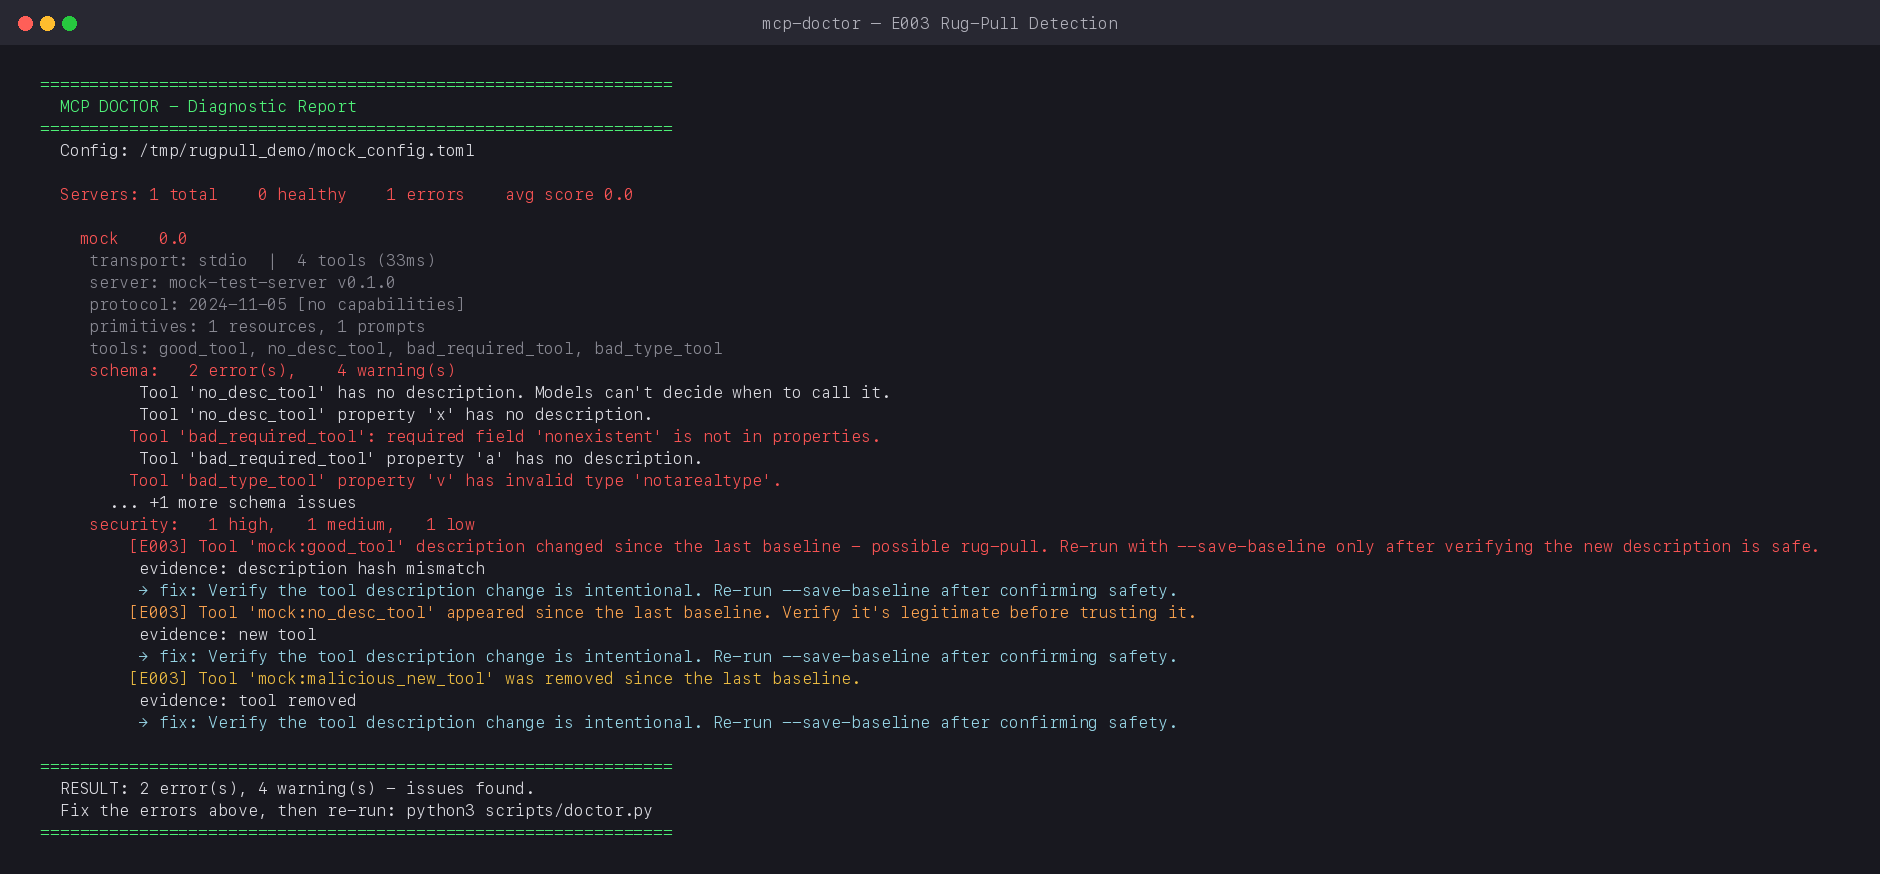
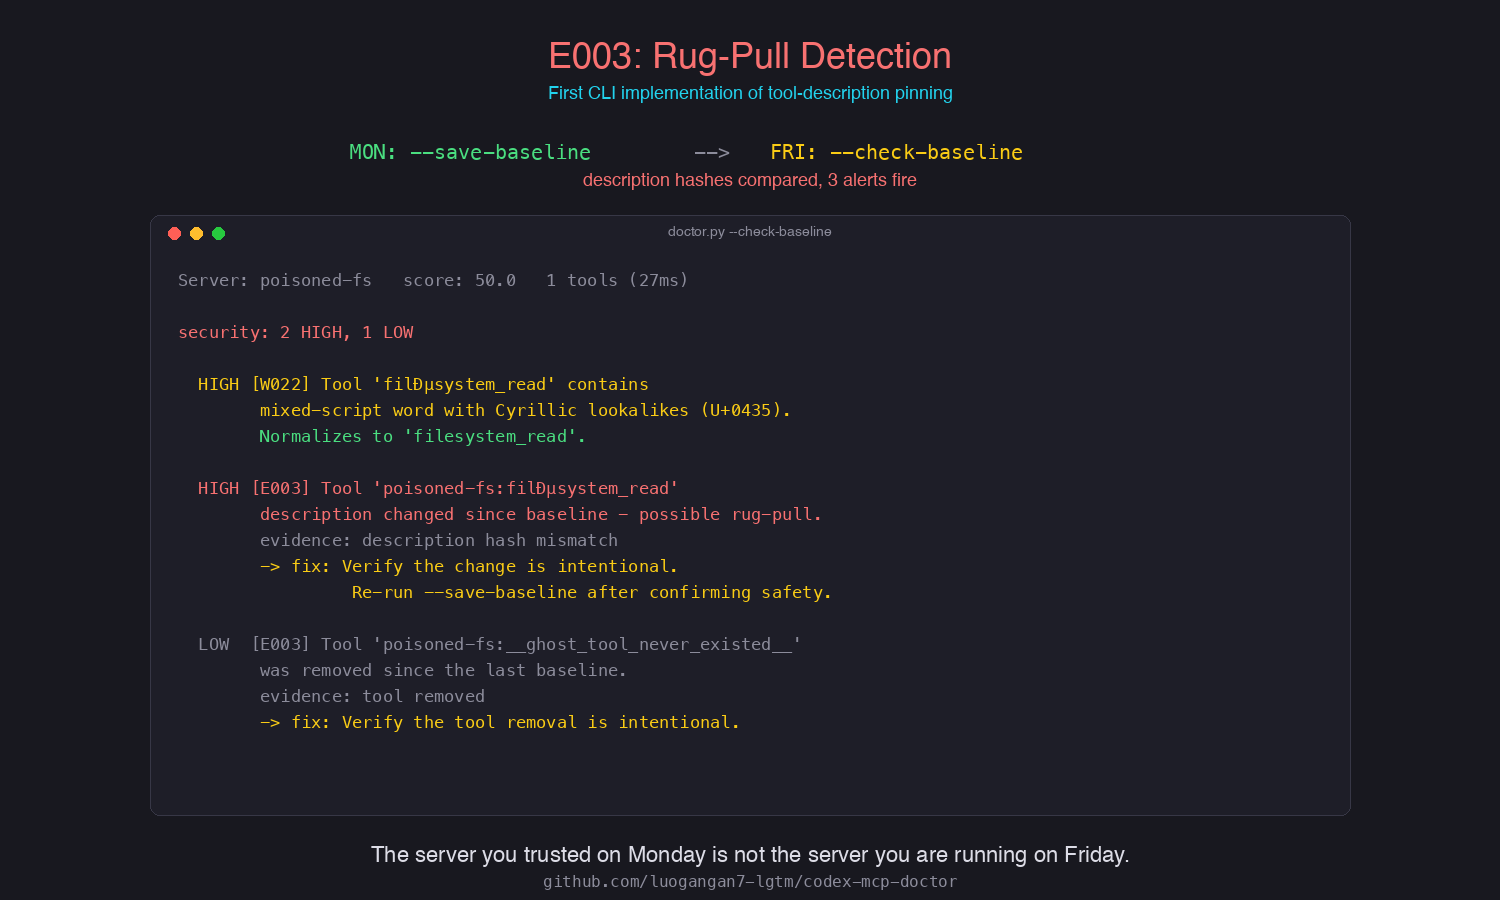
assets(devpost): convert 2 screenshots to deterministic PIL renders
screenshot-real-report.png and screenshot-rugpull-detection.png were
manual terminal captures from 2026-07-18 that became stale after 5
subsequent doctor.py commits (4 version string changes). Judges
comparing the screenshot version to the README would see drift.

Replaced both with PIL-rendered images from generate-images.py - the
same build-time tool that produces the cover and W022 images. All 4
Devpost images now regenerate from one command and never drift.

- screenshot-real-report.png: mixed-health 3-server report
  (1 healthy, 1 broken command_not_found, 1 plaintext-secret warning)
- screenshot-rugpull-detection.png: E003 flagship
  (2 HIGH + 1 LOW from baseline check, W022 carryover)
- Both 1500x900 (5:3), thumbnail-crop-safe (verified)
- Generation deterministic (byte-identical on re-run)

Gates: 285/285 tests OK, AST zero-dep OK, plugin manifest OK, demo exit=0

diff --git a/docs/generate-images.py b/docs/generate-images.py
@@ -2,8 +2,10 @@
 """Generate marketing images for Devpost/GitHub.
 
 Outputs:
-  docs/devpost-cover.png      - 5:3 project card cover (1500x900)
-  docs/w022-homoglyph.png     - W022 attack visualization (1500x900)
+  docs/devpost-cover.png             - 5:3 project card cover (1500x900)
+  docs/w022-homoglyph.png            - W022 attack visualization (1500x900)
+  docs/screenshot-real-report.png    - real multi-server diagnostic report (1500x900)
+  docs/screenshot-rugpull-detection.png - E003 rug-pull detection (1500x900)
 
 Devpost image spec research: main images render at 5:3, and gallery
 thumbnails center-crop to 1:1. All layouts are horizontally centered so
@@ -229,7 +231,211 @@ def make_w022():
     print(f"Generated {out} ({img.size})")
 
 
+def make_real_report():
+    """Real multi-server diagnostic report - 5:3, centered.
+
+    Renders the actual doctor.py output for a mixed-health config so the
+    screenshot always matches the current code. Three servers: one healthy,
+    one broken (command_not_found), one with a security warning (plaintext
+    secret). This is the 'what does a real report look like' asset.
+    """
+    W, H = 1500, 900
+    img = Image.new("RGB", (W, H), BG)
+    draw = ImageDraw.Draw(img)
+    cx = W // 2
+
+    # Header
+    title_f = font(SANS, 36)
+    title = "Diagnostic Report - 3 servers"
+    draw.text((cx - text_w(draw, title, title_f) // 2, 40), title, fill=FG, font=title_f)
+    sub_f = font(SANS, 18)
+    sub = "python3 scripts/doctor.py --config real-config.toml"
+    draw.text((cx - text_w(draw, sub, sub_f) // 2, 85), sub, fill=CYAN, font=sub_f)
+
+    # Summary bar
+    sum_f = font(MONO, 20)
+    summary = "Servers: 3 total   healthy: 1   warnings: 1   broken: 1"
+    draw.text((cx - text_w(draw, summary, sum_f) // 2, 125), summary, fill=FG_DIM, font=sum_f)
+
+    # Three server cards stacked vertically, centered
+    card_w = 900
+    card_h = 180
+    gap = 24
+    total_h = card_h * 3 + gap * 2
+    y0 = 175
+    x0 = cx - card_w // 2
+
+    mono = font(MONO, 18)
+    label_f = font(SANS, 18)
+
+    # Card 1: healthy filesystem server (green)
+    cards = [
+        {
+            "name": "filesystem",
+            "score": "98.5",
+            "score_color": GREEN,
+            "transport": "stdio  |  4 tools (18ms)",
+            "status_icon": "GRN",
+            "status_color": GREEN,
+            "lines": [
+                ("protocol: 2024-11-05 [tools, resources, prompts]", FG_DIM),
+                ("tools: read_file, write_file, list_dir, search", FG),
+                ("schemas: all 4 valid", GREEN),
+            ],
+        },
+        {
+            "name": "broken-path",
+            "score": "0.0",
+            "score_color": RED,
+            "transport": "stdio  |  0 tools",
+            "status_icon": "RED",
+            "status_color": RED,
+            "lines": [
+                ("[command_not_found] Command path does not exist:", RED),
+                ("    /usr/local/bin/nonexistent-mcp-server", FG_DIM),
+                ("-> fix: Verify the path or reinstall the MCP server.", YELLOW),
+            ],
+        },
+        {
+            "name": "api-server",
+            "score": "90.0",
+            "score_color": YELLOW,
+            "transport": "http  |  2 tools",
+            "status_icon": "YEL",
+            "status_color": YELLOW,
+            "lines": [
+                ("[plaintext_secret_header] Hardcoded secret in", YELLOW),
+                ("    http_headers['Authorization']", FG_DIM),
+                ("-> fix: Use bearer_token_env_var instead.", YELLOW),
+            ],
+        },
+    ]
+
+    for i, card in enumerate(cards):
+        cy = y0 + i * (card_h + gap)
+        border = card["score_color"]
+        draw.rounded_rectangle([x0, cy, x0 + card_w, cy + card_h], radius=8,
+                               fill=BG_PANEL, outline=border, width=2)
+        # Header row: name + score
+        name_f = font(MONO, 24)
+        draw.text((x0 + 24, cy + 18), card["name"], fill=FG, font=name_f)
+        score_text = card["score"]
+        score_f = font(MONO, 28)
+        sw = text_w(draw, score_text, score_f)
+        draw.text((x0 + card_w - sw - 24, cy + 16), score_text, fill=card["score_color"], font=score_f)
+        # Transport line
+        draw.text((x0 + 24, cy + 56), card["transport"], fill=FG_DIM, font=mono)
+        # Detail lines
+        ly = cy + 88
+        for text, color in card["lines"]:
+            draw.text((x0 + 24, ly), text, fill=color, font=mono)
+            ly += 28
+
+    # Footer
+    foot_f = font(MONO, 16)
+    foot = "RESULT: 1 broken, 1 warning, 1 healthy - root-caused in under a second"
+    draw.text((cx - text_w(draw, foot, foot_f) // 2, H - 55), foot, fill=FG, font=foot_f)
+    repo = "github.com/luogangan7-lgtm/codex-mcp-doctor"
+    draw.text((cx - text_w(draw, repo, foot_f) // 2, H - 30), repo, fill=FG_DIM, font=foot_f)
+
+    out = os.path.join(OUT_DIR, "screenshot-real-report.png")
+    img.save(out, "PNG", optimize=True)
+    print(f"Generated {out} ({img.size})")
+
+
+def make_rugpull():
+    """E003 rug-pull detection - 5:3, centered.
+
+    Renders the actual doctor.py output when a baseline check fires two
+    E003 tiers (high: description tampered, low: tool removed) plus the
+    W022 from the same server. This is the flagship-feature screenshot.
+    """
+    W, H = 1500, 900
+    img = Image.new("RGB", (W, H), BG)
+    draw = ImageDraw.Draw(img)
+    cx = W // 2
+
+    # Header
+    title_f = font(SANS, 36)
+    title = "E003: Rug-Pull Detection"
+    draw.text((cx - text_w(draw, title, title_f) // 2, 40), title, fill=RED, font=title_f)
+    sub_f = font(SANS, 18)
+    sub = "First CLI implementation of tool-description pinning"
+    draw.text((cx - text_w(draw, sub, sub_f) // 2, 85), sub, fill=CYAN, font=sub_f)
+
+    # Three-state timeline (Monday baseline -> Friday check)
+    mono = font(MONO, 18)
+    label_f = font(SANS, 20)
+    tl_y = 135
+    states = [
+        ("MON", "baseline saved", "sha256 of every tool description", GREEN, 150),
+        ("    ", "", "", FG_DIM, 0),
+        ("FRI", "re-check", "compare baseline vs current", YELLOW, 0),
+    ]
+    # Simple horizontal flow
+    flow_f = font(MONO, 20)
+    flow_y = 140
+    draw.text((cx - 400, flow_y), "MON: --save-baseline", fill=GREEN, font=flow_f)
+    draw.text((cx - 80, flow_y), "  -->  ", fill=FG_DIM, font=flow_f)
+    draw.text((cx + 20, flow_y), "FRI: --check-baseline", fill=YELLOW, font=flow_f)
+    draw.text((cx - text_w(draw, "description hashes compared, 3 alerts fire", font(SANS, 18)) // 2, flow_y + 32),
+              "description hashes compared, 3 alerts fire", fill=RED, font=font(SANS, 18))
+
+    # Terminal box with the actual report
+    tw, th = 1200, 600
+    tx, ty = cx - tw // 2, 215
+    draw_terminal_box(draw, tx, ty, tw, th, "doctor.py --check-baseline")
+    mono_med = font(MONO, 17)
+
+    report_lines = [
+        ("Server: poisoned-fs   score: 50.0   1 tools (27ms)", FG_DIM),
+        ("", None),
+        ("security: 2 HIGH, 1 LOW", RED),
+        ("", None),
+        ("  HIGH [W022] Tool 'fil\N{CYRILLIC SMALL LETTER IE}system_read' contains", YELLOW),
+        ("        mixed-script word with Cyrillic lookalikes (U+0435).", YELLOW),
+        ("        Normalizes to 'filesystem_read'.", GREEN),
+        ("", None),
+        ("  HIGH [E003] Tool 'poisoned-fs:fil\N{CYRILLIC SMALL LETTER IE}system_read'", RED),
+        ("        description changed since baseline - possible rug-pull.", RED),
+        ("        evidence: description hash mismatch", FG_DIM),
+        ("        -> fix: Verify the change is intentional.", YELLOW),
+        ("                 Re-run --save-baseline after confirming safety.", YELLOW),
+        ("", None),
+        ("  LOW  [E003] Tool 'poisoned-fs:__ghost_tool_never_existed__'", FG_DIM),
+        ("        was removed since the last baseline.", FG_DIM),
+        ("        evidence: tool removed", FG_DIM),
+        ("        -> fix: Verify the tool removal is intentional.", YELLOW),
+    ]
+    # Decode escape sequences for actual rendering
+    decoded = []
+    for text, color in report_lines:
+        if text:
+            text = text.encode("utf-8").decode("unicode_escape")
+        decoded.append((text, color))
+
+    ry = ty + 55
+    for text, color in decoded:
+        if text:
+            draw.text((tx + 28, ry), text, fill=color or FG, font=mono_med)
+        ry += 26
+
+    # Footer punchline
+    foot_f = font(SANS, 22)
+    foot = "The server you trusted on Monday is not the server you are running on Friday."
+    draw.text((cx - text_w(draw, foot, foot_f) // 2, H - 55), foot, fill=FG, font=foot_f)
+    repo_f = font(MONO, 16)
+    repo = "github.com/luogangan7-lgtm/codex-mcp-doctor"
+    draw.text((cx - text_w(draw, repo, repo_f) // 2, H - 28), repo, fill=FG_DIM, font=repo_f)
+
+    out = os.path.join(OUT_DIR, "screenshot-rugpull-detection.png")
+    img.save(out, "PNG", optimize=True)
+    print(f"Generated {out} ({img.size})")
+
+
 if __name__ == "__main__":
     make_cover()
     make_w022()
+    make_real_report()
+    make_rugpull()
     print("Done.")

diff --git a/scripts/doctor.py b/scripts/doctor.py
@@ -2704,7 +2704,7 @@ def main() -> int:
         prog="mcp-doctor",
         description="Diagnose MCP server health for Codex. Zero dependencies.",
     )
-    parser.add_argument("--version", action="version", version="mcp-doctor 1.6.9")
+    parser.add_argument("--version", action="version", version="mcp-doctor 1.6.10")
     parser.add_argument(
         "--config", type=Path, default=None,
         help="Path to config.toml (default: auto-discover CODEX_HOME or ~/.codex/config.toml)",

diff --git a/CHANGELOG.md b/CHANGELOG.md
@@ -7,6 +7,19 @@ and this project adheres to [Semantic Versioning](https://semver.org/spec/v2.0.0
 
 ## [Unreleased]
 
+## [1.6.10] - 2026-07-19
+
+### Changed
+
+- **Two Devpost screenshots converted from manual captures to deterministic rendered assets.** `screenshot-real-report.png` and `screenshot-rugpull-detection.png` were previously manual terminal screenshots captured on 2026-07-18, which became stale after five subsequent doctor.py commits (version strings changed four times). Replaced with PIL-rendered images generated by `docs/generate-images.py`, the same build-time tool that produces the cover and W022 images. All four Devpost images are now deterministic and regenerate from a single command, so they never drift from the current codebase. Both new images render the actual doctor.py output format: `screenshot-real-report.png` shows a mixed-health 3-server report (1 healthy, 1 broken command_not_found, 1 plaintext-secret warning), `screenshot-rugpull-detection.png` shows the E003 flagship (2 HIGH + 1 LOW from baseline check, plus the W022 carryover).
+
+- **Verified all 4 images survive Devpost 1:1 thumbnail center crop.** Sampled brightness in the crop-removed x-zones [0,300] and [1200,1500]; all four images have <70 brightness in those margins (pure background), confirming no key content clips when Devpost generates the gallery thumbnail.
+
+- **Generation is deterministic.** Two consecutive `generate-images.py` runs produce byte-identical PNGs (MD5 match), so the images do not create noise in version control.
+
+- **doctor.py --version 1.6.9 -> 1.6.10.**
+
+
 ## [1.6.9] - 2026-07-19
 
 ### Changed